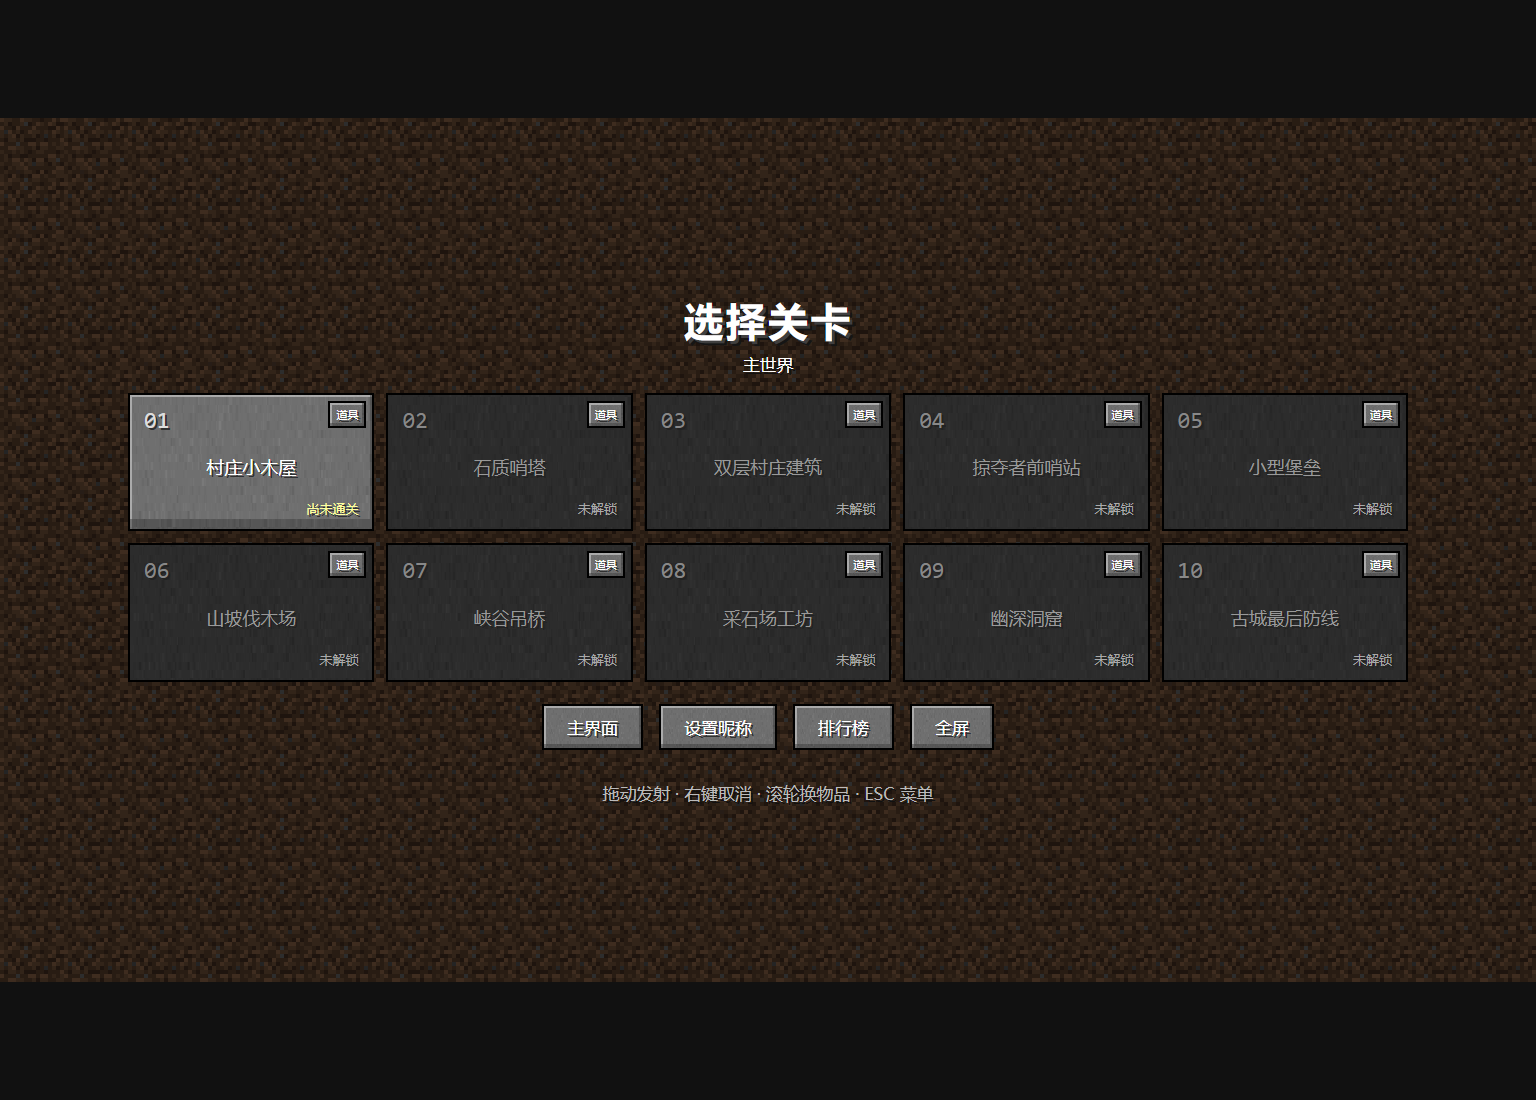
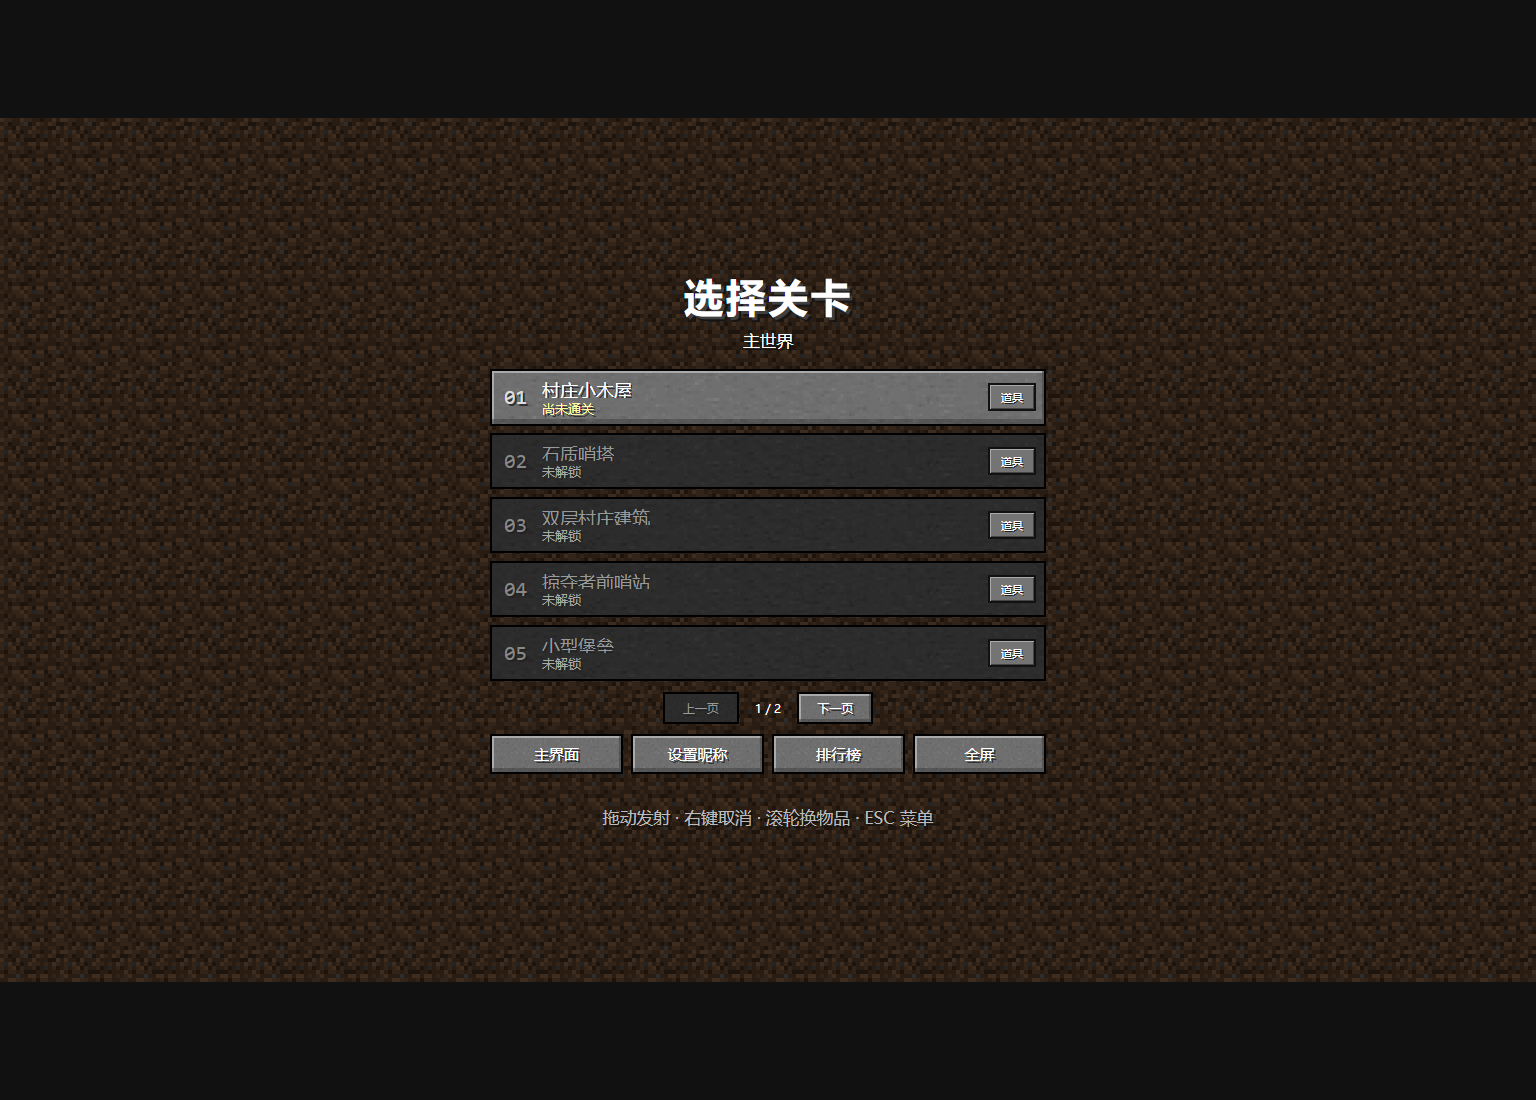
Use live village title scene and five-world vertical selection

Changed region(s): [[0.0625, 0.2473, 0.9375, 0.7727]]

diff --git a/style.css b/style.css
@@ -20,16 +20,17 @@ canvas{display:block;width:100%;height:100%;touch-action:none;cursor:crosshair;i
 .stack-count{position:absolute;z-index:3;right:3%;bottom:0;font:700 clamp(10px,1.4cqw,22px)/1 monospace;text-shadow:2px 2px #111,-1px -1px #111}
 .menu-screen,.result{position:absolute;inset:0;z-index:20;display:grid;place-items:center;background:#0009}
 #levelMenu,#leaderboardMenu{background:linear-gradient(#000a,#000a),url('assets/textures/dirt.png') repeat;background-size:auto,64px 64px;image-rendering:pixelated}
-.campaign-panel{width:88%;max-width:1280px;max-height:94%;overflow:auto;padding:8px 0;text-align:center}
+.campaign-panel{width:min(560px,92%);max-height:96%;overflow:auto;padding:8px 2px;text-align:center}
 h1{margin:0;font-size:clamp(24px,4.2cqw,64px);font-weight:900;letter-spacing:.15cqw;text-shadow:3px 3px #3f3f3f,5px 5px #151515}
 .menu-subtitle,.menu-help{font-size:clamp(9px,1.1cqw,17px);color:#ddd;line-height:1.5;text-shadow:2px 2px #111}
 .menu-subtitle{margin:1cqw 0 2cqw;color:#fff}.menu-help{margin:2cqw 0 0;color:#bbb}
-.level-grid{display:grid;grid-template-columns:repeat(5,minmax(0,1fr));gap:12px}
-.level-card{padding:10px 12px;display:grid;grid-template-columns:minmax(0,1fr);grid-template-rows:auto 1fr auto;align-items:center;gap:4px;text-align:center;aspect-ratio:16/9}
-.level-card strong{grid-column:1;grid-row:2;min-width:0;overflow:hidden;text-overflow:ellipsis;white-space:nowrap;font-size:clamp(11px,1.18cqw,18px);font-weight:500}
-.level-card .personal-best{grid-column:1;grid-row:3;justify-self:end;margin:0;font-size:clamp(9px,.85cqw,13px);color:#ffffa0;white-space:nowrap}
-.level-card .level-number{grid-column:1;grid-row:1;justify-self:start;font-family:monospace;font-size:clamp(14px,1.5cqw,23px);color:#ddd}.level-card:disabled .level-number{color:#888}
+.level-grid{display:grid;grid-template-columns:1fr;gap:clamp(4px,.9cqh,8px)}
+.level-card{padding:5px 76px 5px 48px;display:flex;flex-direction:column;align-items:flex-start;justify-content:center;gap:2px;text-align:left}
+.level-card strong{max-width:100%;overflow:hidden;text-overflow:ellipsis;white-space:nowrap;font-size:clamp(12px,1.5cqw,18px);font-weight:500}
+.level-card .personal-best{font-size:clamp(10px,1.05cqw,13px);color:#ffffa0;white-space:nowrap}
+.level-card .level-number{position:absolute;left:14px;top:50%;transform:translateY(-50%);font-family:monospace;font-size:clamp(14px,1.6cqw,21px);color:#ddd}.level-card:disabled .level-number{color:#888}
 .level-card small{display:none}.level-card:disabled .personal-best{color:#aaa}
+.page-controls{display:flex;align-items:center;justify-content:center;gap:16px;margin:clamp(6px,1.2cqh,12px) 0;font-size:12px}.page-controls button{padding:4px 16px;font-size:12px;min-height:28px}
 .pause-panel{width:32%;min-width:200px;display:grid;gap:1cqw;text-align:center}
 .pause-panel h2{margin:0 0 2cqw;font-size:clamp(18px,2.5cqw,36px);text-shadow:3px 3px #222}
 .pause-panel button{padding:.7cqw 1.5cqw;font-size:clamp(12px,1.4cqw,20px)}
@@ -39,23 +40,22 @@ h1{margin:0;font-size:clamp(24px,4.2cqw,64px);font-weight:900;letter-spacing:.15
 .reward-icon{display:block;width:clamp(42px,6cqw,90px);height:clamp(42px,6cqw,90px);margin:1.5cqw auto;object-fit:contain;image-rendering:pixelated}
 .result-buttons{display:grid;gap:.8cqw;justify-content:stretch;max-width:26cqw;min-width:150px;margin:2cqw auto 0}.result-buttons button{padding:.5cqw 1cqw;font-size:clamp(10px,1.2cqw,18px)}
 .hidden,[hidden]{display:none!important}
-.level-card-wrap{position:relative;min-width:0;aspect-ratio:16/9}.level-card-wrap>.level-card{width:100%;height:100%;min-height:0}
-.loadout-info{position:absolute;right:8px;top:8px;padding:2px 4px;font-size:11px;min-height:26px;z-index:1}
+.level-card-wrap{position:relative;min-width:0;height:clamp(34px,6.5cqh,58px)}.level-card-wrap>.level-card{width:100%;height:100%;min-height:0}
+.loadout-info{position:absolute;right:10px;top:50%;transform:translateY(-50%);width:48px;height:28px;padding:2px;display:grid;place-items:center;font-size:11px;line-height:1;border:2px solid #111;border-image:none;background:#747474;box-shadow:inset 1px 1px #aaa,inset -1px -1px #444;text-shadow:1px 1px #222;z-index:1}.loadout-info:hover:not(:disabled){border-image:none;background:#8a8a9b}
 .loadout-tooltip{display:none;position:absolute;bottom:calc(100% + 5px);right:0;width:max-content;max-width:min(240px,70vw);z-index:40;padding:8px 12px;background:#17101ff5;border:2px solid #5a386e;box-shadow:2px 2px #000;color:#fff;font-size:13px;line-height:1.5;text-align:left}
 .loadout-tooltip>div{display:flex;align-items:center;gap:8px;white-space:nowrap}.loadout-tooltip img{width:24px;height:24px;object-fit:contain;image-rendering:pixelated}
-.level-card-wrap:nth-child(5n+1) .loadout-tooltip{left:0;right:auto}
 .show-loadout .loadout-tooltip{display:block}.show-loadout{z-index:30}
-.level-card-wrap:nth-child(-n+5) .loadout-tooltip{top:calc(100% + 5px);bottom:auto}
+.level-card-wrap:nth-child(-n+2) .loadout-tooltip{top:calc(100% + 5px);bottom:auto}
 .campaign-panel>h1{font-size:clamp(24px,2.7cqw,40px)}.campaign-panel>.menu-subtitle{margin:6px 0 16px}
-.start-screen{position:absolute;inset:0;z-index:20;cursor:pointer;background-color:#172e3b;background-image:linear-gradient(0deg,#000a,transparent 35%,transparent 80%,#0005),url('assets/sprites/title-cover.png');background-size:auto,cover;background-position:center;background-repeat:no-repeat;image-rendering:auto;touch-action:manipulation;outline-offset:-6px}
-.start-title{position:absolute;left:3%;right:3%;top:5%;text-align:center;pointer-events:none}.start-title h1{position:absolute;width:1px;height:1px;overflow:hidden;clip-path:inset(50%)}.start-title p{margin:0;font-size:clamp(13px,1.8cqw,28px);text-shadow:2px 2px #111,-1px -1px #222}
+.start-screen{position:absolute;inset:0;z-index:20;cursor:pointer;background:linear-gradient(#0004,transparent 42%,transparent 82%,#0008);touch-action:manipulation;outline-offset:-6px}
+.start-title{position:absolute;left:3%;right:3%;top:16%;text-align:center;pointer-events:none}.start-title h1{font-size:clamp(38px,6cqw,90px);letter-spacing:.2cqw;text-shadow:3px 3px #666,6px 6px #111}.start-title p{margin:12px 0 0;font-size:clamp(12px,1.5cqw,24px);text-shadow:2px 2px #111}
 .start-prompt{position:absolute;left:0;right:0;bottom:6%;margin:0;text-align:center;font-size:clamp(14px,1.7cqw,24px);text-shadow:2px 2px #111;animation:start-pulse 2.5s ease-in-out infinite;pointer-events:none}
 @keyframes start-pulse{50%{opacity:.55}}@media(prefers-reduced-motion:reduce){.start-prompt{animation:none}}
 #resultTiming{color:#ffffa0;font-variant-numeric:tabular-nums}
 .fullscreen-feedback{position:fixed;left:10%;right:10%;bottom:18%;z-index:100;padding:12px;background:#202020ef;border:2px solid #888;text-align:center;font-size:14px;line-height:1.6;pointer-events:none}
 #loadState{position:absolute;inset:0;display:grid;place-items:center;padding:35px;background:#202020;z-index:50;text-align:center;line-height:1.8}#loadState.error{color:#ffd3ce;background:#311c1c}
-@container (max-width:800px){.campaign-panel{width:94%}.menu-help{margin:8px 0 0}.pause-panel{gap:1.5cqw}.level-card-wrap>.level-card{padding:6px;gap:2px}.level-card .level-number{font-size:14px}.level-grid{gap:6px}.campaign-panel>.menu-subtitle{margin:4px 0 10px}.loadout-info{right:5px;top:5px;min-height:23px;font-size:10px;padding:1px 2px}}
-.menu-actions{display:flex;justify-content:center;gap:1cqw;margin-top:1.4cqw}.menu-actions button{padding:.55cqw 1.4cqw;font-size:clamp(11px,1.1cqw,17px)}
+@container (max-height:440px){.campaign-panel{padding:4px 2px}.campaign-panel>h1{font-size:18px}.campaign-panel>.menu-subtitle{margin:2px 0 5px;font-size:10px}.menu-help{display:none}.page-controls{margin:4px 0}.page-controls button{height:26px;min-height:26px;padding:1px 8px}.menu-actions{margin-top:4px!important}.menu-actions button{height:26px;min-height:26px!important;padding:1px 8px!important}.loadout-info{height:25px}.level-card{padding:3px 70px 3px 38px;flex-direction:row;align-items:center;justify-content:space-between;gap:6px}.level-card strong{font-size:11px;flex:1;min-width:0}.level-card .personal-best{font-size:9px}}
+.menu-actions{display:grid;grid-template-columns:repeat(4,minmax(0,1fr));gap:8px;margin-top:10px}.menu-actions button{padding:6px 4px;font-size:clamp(11px,1.1cqw,15px);white-space:nowrap;overflow:hidden;text-overflow:ellipsis;min-width:0}
 .dialog-panel{width:min(620px,76%);max-height:92%;overflow:auto;padding:2cqw;display:grid;gap:1cqw;background:#202020;border:4px solid #777;box-shadow:inset 3px 3px #444,inset -3px -3px #080808;text-shadow:2px 2px #111}
 .dialog-panel h2{margin:0;text-align:center;font-size:clamp(18px,2.2cqw,32px)}.dialog-panel p{margin:.2cqw 0;line-height:1.6;font-size:clamp(11px,1.1cqw,16px)}.dialog-panel button{padding:.65cqw;font-size:clamp(13px,1.2cqw,18px)}
 .dialog-panel label{font-size:clamp(12px,1.2cqw,18px)}.dialog-panel input{min-width:0;width:100%;padding:10px 12px;border:2px solid #888;background:#080808;color:#fff;border-radius:0;font:inherit;font-size:16px;outline-offset:2px}.online-status{color:#ffffa0;min-height:1.5em}
@@ -63,6 +63,7 @@ h1{margin:0;font-size:clamp(24px,4.2cqw,64px);font-weight:900;letter-spacing:.15
 .leaderboard-panel{width:min(850px,88%)}.ranking-scroll{overflow:auto;max-height:40cqh}.ranking-scroll table{width:100%;border-collapse:collapse;text-align:center;font-size:clamp(11px,1.1cqw,17px)}.ranking-scroll th,.ranking-scroll td{padding:.65cqw;border-bottom:2px solid #444}.ranking-scroll td:nth-child(2){max-width:17cqw;overflow-wrap:anywhere}.ranking-scroll tr.self{color:#ffff55}.ranking-scroll th{color:#bbb;font-weight:400}
 .touch-controls{display:none;position:absolute;z-index:8;top:max(10px,env(safe-area-inset-top));left:max(10px,env(safe-area-inset-left))}.touch-controls button{min-width:44px;min-height:44px;padding:4px 12px;font-size:15px}.menu-open .touch-controls{display:none!important}
 .rotate-hint{display:none;position:fixed;left:12px;right:12px;bottom:max(24px,env(safe-area-inset-bottom));text-align:center;color:#ddd;font-size:14px;line-height:1.8}.rotate-hint button{display:block;margin:10px auto;padding:10px 20px}
-@media (pointer:coarse){.touch-controls{display:flex}.inventory{width:72%;bottom:max(1.3%,env(safe-area-inset-bottom))}.gamehint{font-size:12px}.menu-help{font-size:11px}.level-card strong{font-size:clamp(10px,1.2cqw,14px)}.level-card .personal-best{font-size:clamp(9px,1cqw,12px)}.menu-actions button{min-height:34px}.menu-actions{margin-top:1cqw}.loadout-info{min-height:23px;top:5px}}
+@media (pointer:coarse){.touch-controls{display:flex}.inventory{width:72%;bottom:max(1.3%,env(safe-area-inset-bottom))}.gamehint{font-size:12px}.menu-help{font-size:11px}.menu-actions button{min-height:34px}.menu-actions{margin-top:1cqw}}
 @media (pointer:coarse){.gamehint{left:30%;right:3%;top:18px}}
-@media (orientation:portrait) and (pointer:coarse){.rotate-hint{display:block}.viewport.menu-open{width:100vw;height:100dvh}.campaign-panel{width:94%;max-height:96%;padding:10px 0}.level-grid{grid-template-columns:repeat(2,minmax(0,1fr));gap:7px}.level-card strong{font-size:12px}.level-card .personal-best{font-size:10px}.level-card-wrap:nth-child(n+3) .loadout-tooltip{top:auto;bottom:calc(100% + 5px)}.level-card-wrap:nth-child(2n+1) .loadout-tooltip{left:0;right:auto}.campaign-panel>h1{font-size:26px}.menu-actions{flex-wrap:wrap;gap:6px;margin-top:10px}.menu-actions button{padding:6px 8px}.dialog-panel{width:92%;padding:16px;gap:12px}.dialog-panel h2{font-size:22px}.dialog-panel p{font-size:13px}.dialog-panel button{min-height:38px}.ranking-scroll{max-height:48dvh}.ranking-scroll table{font-size:12px}.ranking-scroll td,.ranking-scroll th{padding:8px 3px}.menu-open~.rotate-hint{display:none}.start-screen{background-size:auto,100% auto}.start-title{top:16%}.start-title p{font-size:16px}.start-prompt{bottom:16%;font-size:16px}}
+@media (orientation:portrait){.menu-open canvas{object-fit:contain}.viewport.menu-open{width:100vw;height:100dvh}.campaign-panel{width:min(560px,92%);max-height:96%;padding:10px 2px}.level-grid{grid-template-columns:1fr;gap:8px}.level-card-wrap{height:62px}.level-card strong{font-size:15px}.level-card .personal-best{font-size:11px}.campaign-panel>h1{font-size:28px}.menu-actions{flex-wrap:wrap;gap:6px;margin-top:10px}.menu-actions button{padding:6px 8px}.dialog-panel{width:92%;padding:16px;gap:12px}.dialog-panel h2{font-size:22px}.dialog-panel p{font-size:13px}.dialog-panel button{min-height:38px}.ranking-scroll{max-height:48dvh}.ranking-scroll table{font-size:12px}.ranking-scroll td,.ranking-scroll th{padding:8px 3px}.menu-open~.rotate-hint{display:none}.start-title{top:20%}.start-title h1{font-size:48px}.start-title p{font-size:14px}.start-prompt{bottom:18%;font-size:16px}}
+@media (orientation:portrait) and (pointer:coarse){.rotate-hint{display:block}}

diff --git a/index.html b/index.html
@@ -1,6 +1,6 @@
 <!doctype html><html lang="zh-CN"><head>
 <meta charset="utf-8"><meta name="viewport" content="width=device-width,initial-scale=1,viewport-fit=cover"><meta name="theme-color" content="#151515">
-<title>拉满的石 · Stone at Full Draw</title><link rel="icon" type="image/png" href="assets/sprites/game-icon.png"><link rel="preload" as="image" href="assets/sprites/title-cover.png"><link rel="stylesheet" href="style.css"></head><body>
+<title>拉满的石 · Stone at Full Draw</title><link rel="icon" type="image/png" href="assets/sprites/game-icon.png"><link rel="stylesheet" href="style.css"></head><body>
 <main class="viewport" id="gameRoot">
  <canvas id="stage" width="1536" height="864" aria-label="像素攻城二维物理游戏"></canvas><p id="fullscreenStatus" class="fullscreen-feedback" role="status" hidden></p>
  <div id="loadState" role="status">正在加载原版纹理与物理引擎…</div>
@@ -9,7 +9,7 @@
  <div class="inventory" id="inventory"><div id="ballbar" class="ballbar" aria-label="物品栏"></div></div>
  <section id="startScreen" class="start-screen hidden" aria-label="拉满的石，点击开始游戏" role="button" tabindex="0"><div class="start-title"><h1>拉满的石</h1><p>如果把弹弓放进我的世界，会发生什么？</p></div><p class="start-prompt">点击任意位置开始游戏</p></section>
  <section id="levelMenu" class="menu-screen hidden" aria-label="选关">
-  <div class="campaign-panel"><h1>选择关卡</h1><p class="menu-subtitle">主世界</p><div id="levelCards" class="level-grid"></div><div class="menu-actions"><button id="homeBtn">主界面</button><button id="profileBtn">设置昵称</button><button id="leaderboardBtn">排行榜</button><button id="fullscreenBtn">全屏</button></div><p class="menu-help" id="menuHelp">拖动发射 · 右键取消 · 滚轮换物品 · ESC 菜单</p><small id="cloudState" hidden role="status"></small></div>
+  <div class="campaign-panel"><h1>选择关卡</h1><p class="menu-subtitle">主世界</p><div id="levelCards" class="level-grid"></div><nav class="page-controls" aria-label="关卡翻页"><button id="prevPage">上一页</button><span id="pageLabel" aria-live="polite"></span><button id="nextPage">下一页</button></nav><div class="menu-actions"><button id="homeBtn">主界面</button><button id="profileBtn">设置昵称</button><button id="leaderboardBtn">排行榜</button><button id="fullscreenBtn">全屏</button></div><p class="menu-help" id="menuHelp">拖动发射 · 右键取消 · 滚轮换物品 · ESC 菜单</p><small id="cloudState" hidden role="status"></small></div>
  </section>
  <section id="pauseMenu" class="menu-screen hidden" aria-label="暂停菜单"><div class="pause-panel"><h2>游戏暂停</h2>
   <button id="resume">继续游戏</button><button id="restart" aria-label="重新开始">重新开始</button><button id="settingsBtn">设置</button><button id="levelMenuBtn">选择关卡</button><button id="pauseHomeBtn">返回主菜单</button>

diff --git a/README.md b/README.md
@@ -17,7 +17,7 @@ Windows 玩家可下载[0.11.0 历史试玩包](https://github.com/qcya/stone-at
 ## 操作与闯关
 
 - 拖住弹药调整方向和力度，松开发射；可向后、轻抛。右键取消；手机拉弓时用另一根手指轻点任意位置取消。
-- 首页使用弹弓与木屋封面插画，点击任意位置（或 Enter／空格）进入选关；首次游玩先设置昵称。十关同页展示，横屏五列两行，每张关卡按钮保持16:9，保留个人最快时间。
+- 首页使用游戏引擎实时绘制的简洁村庄木屋与弹弓场景，点击任意位置（或 Enter／空格）进入选关；首次游玩先设置昵称。选关仿早期 MC 世界菜单，每页五关，横竖屏均竖排，翻页查看后五关，保留个人最快时间与点按道具提示。
 - 原版九格物品栏，数字键 1–9／滚轮切换；前四格固定为圆石、TNT、末影珍珠、烈焰弹。已解锁但本关未配或已用完的道具保留暗图标与数量 0；未解锁和预留格为空。触屏保持可见，电脑闲置后自动隐藏。
 - ESC / 手机左上角“暂停菜单”暂停；依次提供继续游戏、重新开始、设置、选择关卡、返回主菜单。设置可开关音效、调节音效音量并保存，也可独立开关音乐。R 重开当前关，切到其他应用自动暂停。
 - 选关“全屏”优先调用 Toy App 的横屏沉浸接口，再尝试浏览器全屏与方向锁定；成功后按钮显示“取消全屏”，点击退出并释放方向锁，不支持时显示提示。真实手机仍需验收。

diff --git a/docs/TOY.md b/docs/TOY.md
@@ -1,5 +1,13 @@
 # B 站 Toy 适配
 
+## 当前试玩：实机首页与五关竖排选世界 — 2026-10-18
+
+按最新反馈替换封面首页与十关卡片：主菜单复用实际游戏渲染器和纹理，独立搭建第一关风格的小木屋，缩小建筑、改为半格屋面并减少室内摆设；不计入通关进度或计时。云保留方块轮廓，移除3像素位置取整，改用逐帧视觉时间，菜单内也连续移动。
+
+横竖屏均每页五关，仿早期MC选择世界的竖排按钮，上一页／下一页查看1—5与6—10关。从游戏返回选关时自动定位本关所在页。道具按钮独立使用四边相同的2像素黑框，文字居中，保留点击才展开的简短清单；暂停、设置、九格HUD和成绩规则保持现有行为。本轮继续仅供试玩，不提交Toy审核。
+
+验证：156项单测、45项全量浏览器用例通过（含十关实际鼠标通关）；短屏排版调整后8项菜单回归通过。检查568×320、667×375及手机竖屏的按钮、道具弹窗与翻页；主菜单计时保持0。内网静态文件已更新，页面无错误／404，保留现有榜单与存档。
+
 ## 当前试玩：封面首页、16:9卡片、设置与全屏切换 — 2026-10-18
 
 本轮以用户的新反馈替换六关分页方案：十关同页，横屏五列两行，每张实际按钮16:9；手机竖屏两列，允许竖向滚动而不翻页。主界面改用已有封面插画，配“如果把弹弓放进我的世界，会发生什么？”引子，不再用第一关截图作背景。
